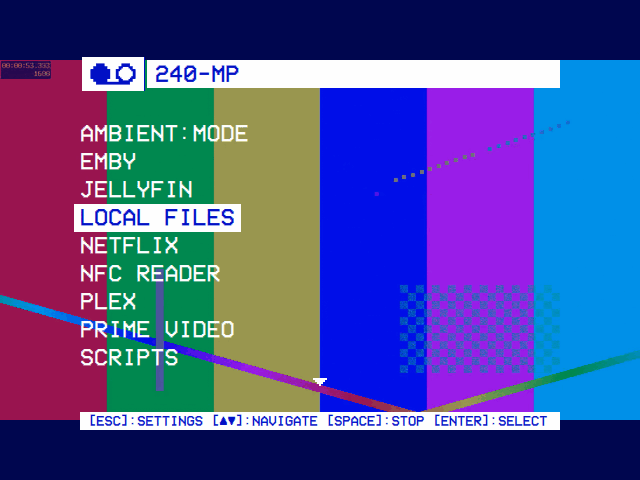
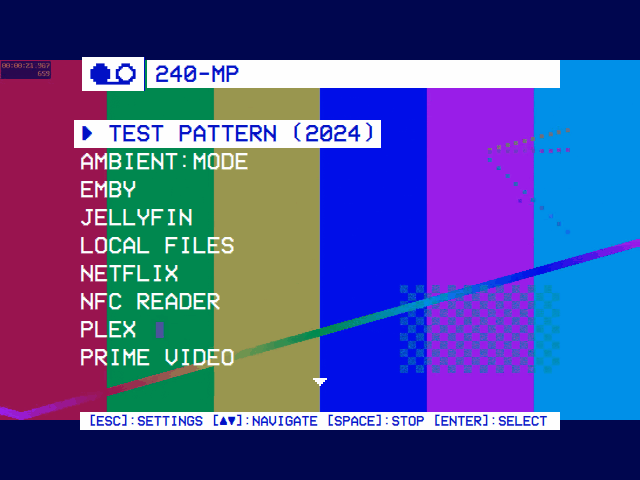
feat: one step back to a video playing behind the menus
With Transparent Background, back from a video returns to the menus and
leaves it playing behind them, but nothing took it back to full screen
short of finding it again in its module, and then answering the resume
prompt. Back again only went further back, up to the main menu.

- The main menu now leads with a row for that video, "► <title>", with
  the cursor on it while it plays behind the menus: select takes it back
  to full screen where it is. Play/pause still stops it, and the row
  goes with it; the cursor stays on its row rather than its index as
  the rows below it move.
- Choosing the same video again in its module's tree takes it back at
  once too, without the resume prompt.
- How: right after loadAndPlay() a player notes the session
  (MpvController::noteSession({ module, title, params })), which every
  loadAndPlay() clears, so a player that notes nothing leaves no row.
  While the session plays behind the menus, backgroundNote holds it. The
  row opens the module with { resumePlayer: params }, its tree opens the
  player with them as from RECENTLY WATCHED, and the player, finding its
  own video in the note, plays from where back saved it, so
  loadAndPlay() reattaches the same session.
- YouTube and Local Files note their sessions. Local Files plays it back
  with the playlist position and shuffle it was started with, so the
  command line matches. The other players don't yet.
- Docs: README, ARCHITECTURE, the setting's help line, and the
[…]

diff --git a/views/ModuleList.qml b/views/ModuleList.qml
@@ -17,13 +17,62 @@ FocusScope {
     Connections {
         target: appCore;
         function onModulesLoaded(moduleData) {
-            menuList.model = moduleData
-            if (moduleData.length > 0) {
-                var restore = (navListState.currentIndex !== undefined) ? navListState.currentIndex : 0
-                menuList.currentIndex = Math.min(restore, moduleData.length - 1)
-                menuList.positionViewAtIndex(menuList.currentIndex, ListView.Contain)
+            appRoot.modules = moduleData
+            // With a video to go back to, the cursor starts on its row: the
+            // quickest way out of the menus is then select.
+            appRoot.showRows(appRoot.behind ? null : navListState)
+        }
+    }
+
+    // The enabled modules (AppCore), led by a row for the video playing on
+    // behind the menus (Transparent Background), when its player noted how
+    // to take it back (root.behindNote): select opens that player again,
+    // which brings the video back to full screen where it is.
+    property var modules: []
+    readonly property var behind: root.videoBehind && root.behindNote && root.behindNote.module
+                                  ? root.behindNote : null
+    // Coming and going while the menu is up (STOP, the video ending) moves
+    // the rows below it, so the cursor stays on its row rather than its index.
+    onBehindChanged: if (modules.length > 0) showRows(cursorState())
+
+    // The row the cursor is on, as listState keeps it: its index, and which
+    // row it is (a backend's rows share their module's entry point).
+    function cursorState() {
+        var row = menuList.model[menuList.currentIndex]
+        return { currentIndex: menuList.currentIndex, entry: row ? row.entry_point : "",
+                 name: row ? row.name : "", behind: !!(row && row.behind) }
+    }
+
+    // Lays the rows out with the cursor on keep (a cursorState()): the same
+    // row, else one of its module's, else the same index; on the first row
+    // without.
+    function showRows(keep) {
+        var rows = modules.slice()
+        var note = appRoot.behind
+        var entry = note && appCore ? appCore.moduleEntryPoint(note.module) : ""
+        if (entry)
+            rows.unshift({ name: "\u25BA " + (note.title || ""), entry_point: entry,
+                           params: { resumePlayer: note.params || {} }, behind: true })
+        menuList.model = rows
+        if (rows.length === 0)
+            return
+        var index = -1
+        if (keep && keep.entry) {
+            for (var pass = 0; pass < 2 && index < 0; ++pass) {
+                for (var i = 0; i < rows.length; ++i) {
+                    if (rows[i].entry_point === keep.entry
+                            && (pass === 1 || (rows[i].name === keep.name
+                                               && !!rows[i].behind === !!keep.behind))) {
+                        index = i
+                        break
+                    }
+                }
             }
         }
+        if (index < 0)
+            index = keep && keep.currentIndex !== undefined ? Math.min(keep.currentIndex, rows.length - 1) : 0
+        menuList.currentIndex = index
+        menuList.positionViewAtIndex(index, ListView.Contain)
     }
 
     // Header
@@ -152,18 +201,18 @@ FocusScope {
         Keys.onReturnPressed: {
             // A row is {name, entry_point, params}. Module rows carry no params;
             // rows contributed by a backend (see AppCore::menuEntriesForModule) use
-            // them to tell the module's router what was picked. This view stays
+            // them to tell the module's router what was picked, and so does the
+            // row for the video behind the menus (resumePlayer). This view stays
             // ignorant of what any of them mean.
             var row = menuList.model[menuList.currentIndex]
             if (!row) return
             console.log("Routing to: " + row.entry_point)
-            appRoot.navigateTo(row.entry_point, row.params || {},
-                               { currentIndex: menuList.currentIndex })
+            appRoot.navigateTo(row.entry_point, row.params || {}, appRoot.cursorState())
         }
 
         Keys.onPressed: function(event) {
             if (event.key === Qt.Key_Escape || event.key === Qt.Key_Backspace || event.key === Qt.Key_Back) {
-                appRoot.navigateTo("views/Settings.qml", {}, { currentIndex: menuList.currentIndex })
+                appRoot.navigateTo("views/Settings.qml", {}, appRoot.cursorState())
                 event.accepted = true
             } else if (event.key === Qt.Key_Space && root.videoBehind) {
                 // The play/pause key stops a video left playing behind the

diff --git a/modules/local_files/views/Player.qml b/modules/local_files/views/Player.qml
@@ -160,6 +160,15 @@ FocusScope {
             subtitleLangs.push(subLangString)
         }
 
+        // This file, still playing behind the menus: it goes on full screen
+        // where it is, without asking, played as it was started so that it is
+        // the same session (back saved where it got to).
+        var note = root.behindNote
+        if (note.module === moduleRoot.moduleId && note.params && note.params.filePath === filePath) {
+            play(localFilesBackend.getSavedPosition(filePath).pos || 0, note.plPos, note.shuffle)
+            return
+        }
+
         // Shuffle only applies to playlists; "Always" wins over resume: a shuffled
         // playlist starts fresh & random; resume position (a sequential item index)
         // is meaningless once order is randomized.
@@ -217,6 +226,12 @@ FocusScope {
 
     function play(startMs, plPos, shuffle) {
         mpvController.loadAndPlay(filePath, startMs > 0 ? startMs / 1000.0 : 0.0, 0, subFlag, [], subtitleLangs, loopOn, plPos, 0.0, "", false, "", shuffle, [], imageDurationSec, imageContent)
+        // How the main menu takes it back once it plays behind the menus, and
+        // how it was started, which taking it back repeats.
+        mpvController.noteSession({ module: moduleRoot.moduleId,
+                                    title: itemTitle.replace(/\.[^.\/]+$/, ""),
+                                    params: { filePath: filePath, title: itemTitle },
+                                    plPos: plPos, shuffle: shuffle })
     }
 
     Rectangle {

diff --git a/modules/youtube/views/Player.qml b/modules/youtube/views/Player.qml
@@ -33,6 +33,9 @@ FocusScope {
         overlayVisible = false
         lastStartMs = startMs
         mpvController.loadAndPlay(videoUrl, startMs / 1000.0, 0, subTrack, [], subLangs, false, -1, 0.0, "", false, "", false, [], 0.0, false, ytdlArgs)
+        // How the main menu takes it back once it plays behind the menus.
+        mpvController.noteSession({ module: moduleRoot.moduleId, title: item.title || "",
+                                    params: { item: item } })
     }
 
     // Starting mpv runs synchronously and, on the Pi, immediately switches VT
@@ -166,8 +169,13 @@ FocusScope {
         var resumeSetting = setting("resume_playback", "Ask")
         var saved = youtubeBackend.getSavedPosition(videoId)
         var savedPos = saved.pos || 0
+        // This video, still playing behind the menus: it goes on full screen
+        // where it is, without asking (back saved where it got to).
+        var note = root.behindNote
+        var behind = note.module === moduleRoot.moduleId && note.params && note.params.item
+                     && note.params.item.videoId === videoId
 
-        if (resumeSetting === "Always") {
+        if (resumeSetting === "Always" || behind) {
             play(savedPos)
         } else if (savedPos > 0) {
             savedPositionMs = savedPos

diff --git a/modules/local_files/views/Items.qml b/modules/local_files/views/Items.qml
@@ -35,11 +35,21 @@ FocusScope {
     }
 
     // The startup favourite, played as if chosen in FAVORITES, so coming back
-    // from it lands there. Only as the view first opens: coming back from the
-    // player brings navListState instead.
+    // from it lands there, or the file behind the menus (the main menu's row
+    // for it), opened again as if chosen in RECENTLY WATCHED. Only as the view
+    // first opens: coming back from the player brings navListState instead.
     Component.onCompleted: {
-        if (navParams.startupPlay && !navParams.navListState)
+        if (navParams.navListState)
+            return
+        if (navParams.resumePlayer)
+            Qt.callLater(resumeBehind, navParams.resumePlayer)
+        else if (navParams.startupPlay)
             Qt.callLater(playAtStartup, navParams.startupPlay)
+    }
+    function resumeBehind(params) {
+        itemsRoot.navigateTo("Player.qml", params,
+                             { trail: [{ path: itemsRoot.rootPath, sel: 0, name: "", pushed: false },
+                                       { path: "recent", sel: 0, name: "Recently Watched", pushed: false }] })
     }
     function playAtStartup(entry) {
         var favorites = localFilesBackend.existing(appCore.get_list(moduleRoot.moduleId, "favorites"))

diff --git a/modules/youtube/views/Items.qml b/modules/youtube/views/Items.qml
@@ -33,11 +33,21 @@ FocusScope {
     }
 
     // The startup favourite, played as if chosen in FAVORITES, so coming back
-    // from it lands there. Only as the view first opens: coming back from the
-    // player brings navListState instead.
+    // from it lands there, or the video behind the menus (the main menu's row
+    // for it), opened again as if chosen in RECENTLY WATCHED. Only as the view
+    // first opens: coming back from the player brings navListState instead.
     Component.onCompleted: {
-        if (navParams.startupPlay && !navParams.navListState)
+        if (navParams.navListState)
+            return
+        if (navParams.resumePlayer)
+            Qt.callLater(resumeBehind, navParams.resumePlayer)
+        else if (navParams.startupPlay)
             Qt.callLater(playAtStartup, navParams.startupPlay)
+    }
+    function resumeBehind(params) {
+        navigateTo("Player.qml", params,
+                   { trail: [{ path: "home", sel: 0, name: "", pushed: false },
+                             { path: "history", sel: 0, name: "Recently Watched", pushed: false }] })
     }
     function playAtStartup(entry) {
         var favorites = appCore.get_list(moduleRoot.moduleId, "favorites")

diff --git a/modules/youtube/views/Root.qml b/modules/youtube/views/Root.qml
@@ -53,12 +53,15 @@ FocusScope {
         }
     }
 
-    // The startup favourite, when the app opens on one (Main.qml), or the
-    // sign-in page (SIGN IN in the module's settings), whose back returns there.
+    // The startup favourite, when the app opens on one (Main.qml), the video
+    // left playing behind the menus, from the main menu's row for it
+    // (resumePlayer), or the sign-in page (SIGN IN in the module's settings),
+    // whose back returns there.
     Component.onCompleted: {
         if (navParams.signIn)
             navigateTo("SignIn.qml", navParams)
         else
-            navigateTo("Items.qml", { startupPlay: navParams.startupPlay })
+            navigateTo("Items.qml", { startupPlay: navParams.startupPlay,
+                                      resumePlayer: navParams.resumePlayer })
     }
 }

diff --git a/views/Settings.qml b/views/Settings.qml
@@ -149,7 +149,7 @@ FocusScope {
                 step: 10,
                 startText: "TRANSPARENT",
                 endText: "SOLID",
-                description: "How much of a video shows through the menus when back returns to them and leaves it playing behind, until you play something else or stop it on the main menu\n[SOLID] Off: back stops the video, as it always has",
+                description: "How much of a video shows through the menus when back returns to them and leaves it playing behind, until you play something else or stop it on the main menu, whose first row takes it back to full screen\n[SOLID] Off: back stops the video, as it always has",
                 moduleId: ""
             })
         }

diff --git a/Main.qml b/Main.qml
@@ -295,6 +295,10 @@ Window {
     // theirs. The setting's slider says how solid their ground is over it.
     readonly property bool videoActive: mpvController ? mpvController.videoActive : false
     readonly property bool videoBehind: mpvController ? mpvController.background : false
+    // What its player noted of the video behind the menus ({ module, title,
+    // params }, see MpvController::noteSession): the main menu offers it
+    // back as its first row. Empty for a player that notes nothing.
+    readonly property var behindNote: mpvController ? mpvController.backgroundNote : ({})
     property int backdropSolidity: 100
 
     // "transparent_background": how solid the menus' ground is over a video

diff --git a/modules/local_files/views/Root.qml b/modules/local_files/views/Root.qml
@@ -64,7 +64,9 @@ FocusScope {
     }
 
     Component.onCompleted: {
-        // The startup favourite, when the app opens on one (Main.qml).
-        navigateTo("Items.qml", { startupPlay: navParams.startupPlay })
+        // The startup favourite, when the app opens on one (Main.qml), or the
+        // file left playing behind the menus, from the main menu's row for it.
+        navigateTo("Items.qml", { startupPlay: navParams.startupPlay,
+                                  resumePlayer: navParams.resumePlayer })
     }
 }

diff --git a/src/player/MpvController.h b/src/player/MpvController.h
@@ -7,6 +7,7 @@
 #include <QTimer>
 #include <QJsonArray>
 #include <QStringList>
+#include <QVariantMap>
 
 class AppCore;
 class DisplayHandoff;
@@ -22,6 +23,9 @@ class MpvController : public QObject {
     Q_PROPERTY(bool videoActive READ videoActive NOTIFY videoActiveChanged)
     // ...and goes on behind the menus, back having returned to them.
     Q_PROPERTY(bool background READ background NOTIFY backgroundChanged)
+    // What its player noted of the session behind the menus (noteSession), so
+    // the main menu can offer it back; empty while there is none.
+    Q_PROPERTY(QVariantMap backgroundNote READ backgroundNote NOTIFY backgroundChanged)
 
 public:
     explicit MpvController(const QString &appRoot, const QString &dataRoot,
@@ -84,6 +88,14 @@ public:
     bool background() const { return m_background; }
     // Ends a session playing behind the menus.
     Q_INVOKABLE void stopBackground();
+    // Called by a player right after loadAndPlay(): how to take the session
+    // back to full screen once it plays behind the menus, as
+    // { module, title, params }, params being the player view's navParams.
+    // Choosing the main menu's row for it opens the module's player with
+    // them, which then calls loadAndPlay() as before and so reattaches. Every
+    // loadAndPlay() clears it, so a player that notes nothing leaves no row.
+    Q_INVOKABLE void noteSession(const QVariantMap &note);
+    QVariantMap backgroundNote() const { return m_background ? m_sessionNote : QVariantMap(); }
     // The embedded session's newest picture, and the size to draw it at
     // (VideoSurface).
     QImage videoFrame() const;
@@ -189,6 +201,7 @@ private:
     int             m_detachPositionMs = 0;
     // The embedded session's command line, to know it when it is asked for again.
     QStringList     m_sessionArgs;
+    QVariantMap     m_sessionNote;
     QSize           m_videoTargetSize { 640, 480 };
     QString         m_embeddedInputConfPath;
     DisplayHandoff *m_handoff      = nullptr;

diff --git a/src/player/MpvController.cpp b/src/player/MpvController.cpp
@@ -334,6 +334,8 @@ void MpvController::loadAndPlay(const QString &url, float startSeconds,
                                  const QStringList &subTitles, float imageDurationSec,
                                  bool imageContent, const QStringList &extraArgs, const QString &jellyfinToken,
                                  const QStringList &extraUrls) {
+    // Its player notes the new session afresh (noteSession), or leaves none.
+    m_sessionNote.clear();
     // Transparent Background plays inside the app's own window, where the
     // menus can lie over the picture.
     const bool embedded = transparentBackground();
@@ -932,6 +934,12 @@ void MpvController::stopBackground() {
         stop();
 }
 
+void MpvController::noteSession(const QVariantMap &note) {
+    // Only a session played inside the window can be left behind the menus.
+    if (videoActive())
+        m_sessionNote = note;
+}
+
 void MpvController::appendEmbeddedVideoArgs(QStringList &args) const {
     // The mpv_video_args override is for mpv's own outputs, so not used here.
     switch (m_videoProfile) {
@@ -994,6 +1002,7 @@ void MpvController::endEmbedded() {
         return;
     m_embedded->stop();
     m_sessionArgs.clear();
+    m_sessionNote.clear();
     if (m_background) {
         m_background = false;
         emit backgroundChanged();
@@ -1014,6 +1023,7 @@ void MpvController::onEmbeddedFinished(const QString &lastEndReason) {
     m_position = 0;
     m_duration = 0;
     m_sessionArgs.clear();
+    m_sessionNote.clear();
     const bool wasBackground = m_background;
     if (wasBackground) {
         m_background = false;

diff --git a/ARCHITECTURE.md b/ARCHITECTURE.md
@@ -281,6 +281,7 @@ With Settings → **Transparent Background** (`app.transparent_background`: how 
 - **Back** is mapped by the session's input.conf to `script-message 240mp-menu` (the OSC's own menu, while open, still takes it first). `detachToMenus()` then emits `playbackEnded(pos, dur, "stopped")`: the module saves where it got to, reports it stopped, and goes back, while the session goes on (`mpvController.background`). Its position is followed but no longer reported. `Main.qml` puts the `VideoSurface` over everything while a session plays full screen and under the views while `background` (`root.videoBehind`); the views draw no background of their own, so the picture is theirs, and the background colour lies between them at the setting's solidity (`root.backdropSolidity`). Full-screen dialogs keep their own background, and the title bar's logo gets a box of it.
 - **The setting** is a slider in Settings: its line, `ON` or `OFF`, with the deck's tape bar (`OsdTapeBar`) under it from TRANSPARENT to SOLID, which ◄ ► move by 10 and save at once, so the menus over a video show each step. The bar takes whole lines under its own, so the list scrolls by lines as before. Its first values, `On` and `Dim`, read as `0` and `60`.
 - **Chosen again** (the same command line apart from `--start`), the session is not reloaded: `reattach()` brings it back full screen. A module resuming at the point it saved when back left it carries on where the picture is now; any other start (from the beginning, say) is sought.
+- **Back to it from the main menu.** Right after `loadAndPlay()` a player notes the session: `noteSession({ module, title, params })`, `params` being its own `navParams`. Every `loadAndPlay()` clears the note, so a player that notes nothing leaves none. While the session plays behind the menus, `backgroundNote` (`root.behindNote`) holds it, and the main menu (`views/ModuleList.qml`) leads with a row for it, `► <title>`, the cursor on it. Select opens the module with `{ resumePlayer: params }`, and its tree opens the player with them as if chosen from RECENTLY WATCHED. A player that finds its own video in `root.behindNote` skips its resume prompt and plays from the point back saved, so the same video chosen in the tree comes back at once too. YouTube (by `videoId`) and Local Files (by path, with the `plPos` and `shuffle` it was started with, so the command line matches) note their sessions. The other players don't yet, so their videos come back only by choosing them again.
 - **It ends** when its playlist plays out, with play/pause on the main menu (`stopBackground()`, `[SPACE]:STOP` in its footer), with any other playback, when something else takes the screen (`DisplayHandoff::handingOff`, emitted at every `acquire()`: a takeover script, a web player) and when the setting is turned off. Behind the menus no `playbackEnded` follows: its module took it as stopped already. A server told the stream stopped (a Plex, Jellyfin or Emby transcode) may end it sooner.
 
 ### Raspberry Pi headless hand-off (EGLFS)
